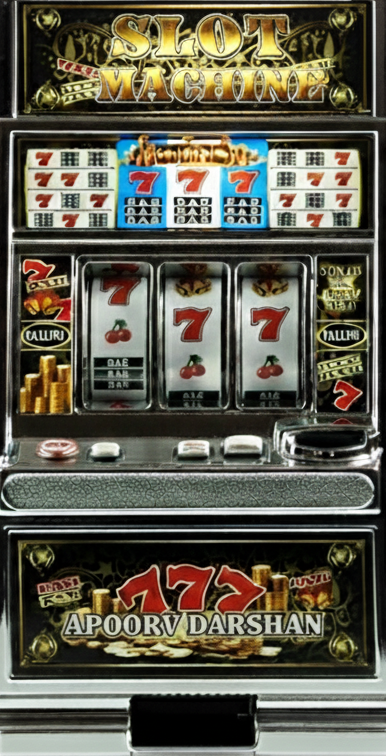
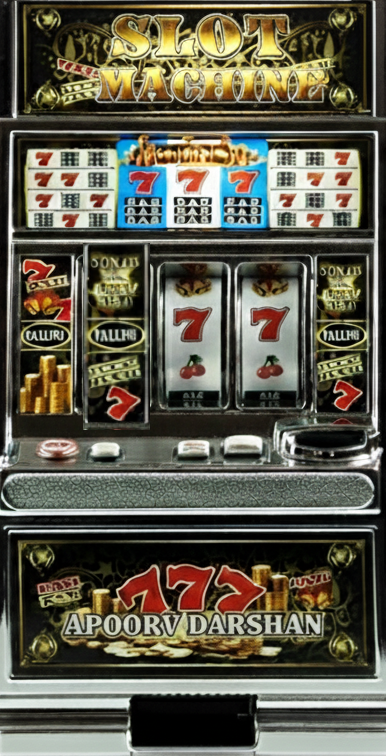
added numbers image in slot machine

Changed region(s): [[0.2176, 0.3042, 0.4041, 0.578]]

diff --git a/script.js b/script.js
@@ -67,17 +67,25 @@ function initializeSlotMachine() {
     const reelStripTens = document.getElementById('reelStripTens');
     const reelStripOnes = document.getElementById('reelStripOnes');
 
-    // Create reel numbers (0-9 repeated for continuous effect)
+    // Create reel numbers (0-9 repeated for continuous effect) using images
     for (let i = 0; i < 4; i++) {
         for (let num = 0; num <= 9; num++) {
             const divTens = document.createElement('div');
             divTens.className = 'reel-number';
-            divTens.textContent = num;
+            const imgTens = document.createElement('img');
+            imgTens.src = `assets/num${num}.png`;
+            imgTens.alt = num;
+            imgTens.className = 'number-img';
+            divTens.appendChild(imgTens);
             reelStripTens.appendChild(divTens);
 
             const divOnes = document.createElement('div');
             divOnes.className = 'reel-number';
-            divOnes.textContent = num;
+            const imgOnes = document.createElement('img');
+            imgOnes.src = `assets/num${num}.png`;
+            imgOnes.alt = num;
+            imgOnes.className = 'number-img';
+            divOnes.appendChild(imgOnes);
             reelStripOnes.appendChild(divOnes);
         }
     }

diff --git a/styles.css b/styles.css
@@ -166,10 +166,12 @@ input[type="text"] {
     display: flex;
     align-items: center;
     justify-content: center;
-    font-size: 56px;
-    font-weight: bold;
-    color: #fff;
-    text-shadow: 2px 2px 4px rgba(0, 0, 0, 0.8);
+}
+
+.number-img {
+    width: 100%;
+    height: 100%;
+    object-fit: contain;
 }
 
 /* Dropdowns */
